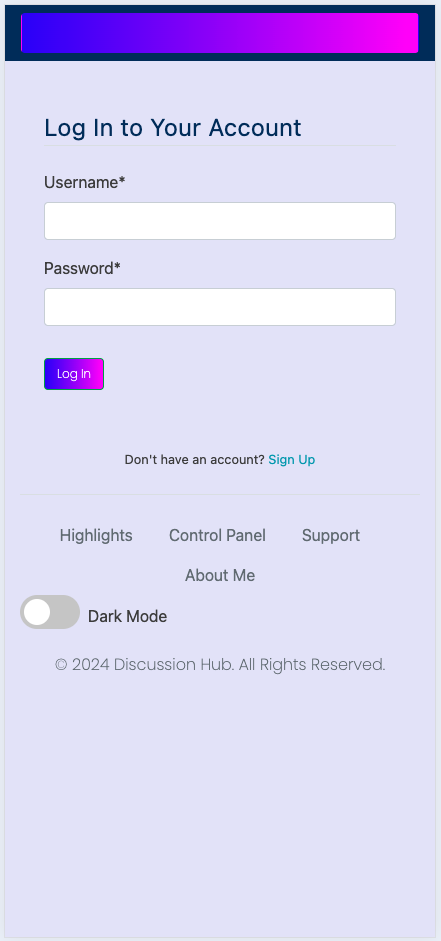
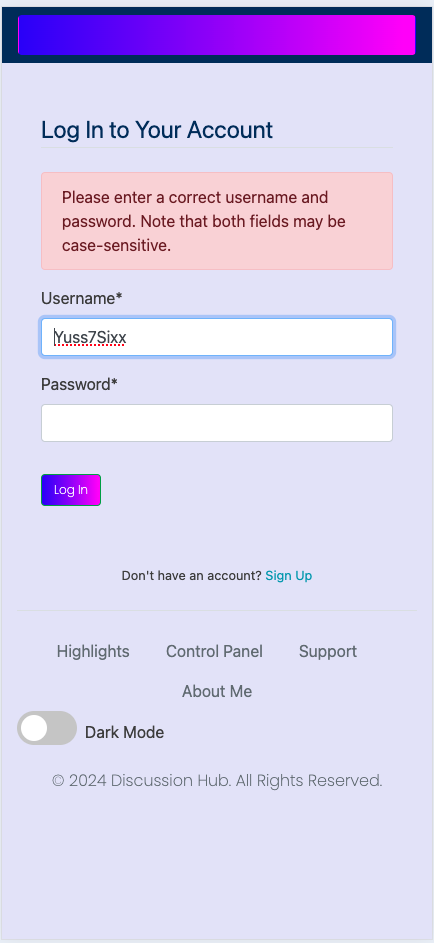
Add login and register pages section to the readme file

diff --git a/README.md b/README.md
@@ -493,6 +493,61 @@ Community guidelines ensure a positive experience for all users, with a strong e
 *About Us Mobile*<br>
 ![About Us Mobile](static/images/screenshots/pageaboutusmobile.png)
 
+### Log In Page
+
+The Login section of the application is designed to provide a user-friendly interface for accessing user accounts. It features:
+
+* Title: A visually appealing title in dark blue reads "Log In to Your Account," clearly indicating the purpose of this section.
+
+* Input Fields: Users are presented with two input fields:
+
+Username: A field for the user to enter their username, styled with a soft white background for easy readability.
+Password: A field for entering the password, also featuring a soft white design to maintain consistency.
+
+* Login Button: A prominent button labeled "Log In," styled in a blue-purple color, allowing users to submit their credentials and access their accounts seamlessly.
+
+* Sign-Up Prompt: Below the login form, there's a friendly reminder for users who do not have an account, prompting them to "Sign Up" if they need to create a new one.
+
+* Error Messaging: Should the user enter incorrect login information, an error message will be displayed to alert them, stating, "Please enter a correct username and password." It's important to note that both fields may be case-sensitive, which means users must enter their credentials precisely.
+
+This design aims to ensure users have an intuitive experience while logging in, promoting both functionality and ease of use.
+
+*Login Page Desktop*<br>
+![Login Page Desktop](static/images/screenshots/pagelogindesktop.png)
+
+*Login Page Mobile*<br>
+![Login Page Mobile](static/images/screenshots/pageloginmobile.png)
+
+### Register Page
+
+The Registration page is designed to facilitate the account creation process for users. It features:
+
+* Title: A striking dark blue title "Create Your Account" immediately captures the user's attention and clearly indicates the purpose of the page.
+
+* Input Fields: Users are provided with six input fields, all styled with a soft white background for a pleasant aesthetic:
+
+* Username: This field includes a requirements statement to ensure users understand the necessary criteria for creating a valid username.
+* First Name: A field for users to input their first name.
+* Last Name: A field for users to input their last name.
+* Email: A field to enter a valid email address, highlighting the importance of accuracy for communication purposes.
+* Password: This field includes specific rules that must be followed, ensuring the password meets required criteria.
+* Password Confirmation: A field to re-enter the password for verification.
+* Error Messaging: If users enter incorrect information in the password fields or if they attempt to register a username that is already taken, a warning message will appear below the respective input field. This feedback helps users correct their entries promptly.
+
+* User Guidance: Users are encouraged to enter accurate information in all fields to facilitate effective communication from our team regarding updates or any issues that may arise.
+
+* Register Now Button: At the end of the form, there is a prominent "Register Now" button styled in an attractive blue and purple color, allowing users to submit their registration details easily.
+
+* Login Prompt: Additionally, at the bottom of the registration page, a message is displayed stating, "Already have an account? Log in," providing users with an easy way to navigate to the login page if they have previously registered.
+
+This design aims to provide a straightforward and effective registration process, ensuring users can create their accounts with minimal friction while being informed at each step.
+
+*Register Page Desktop*<br>
+![Register Page Desktop](static/images/screenshots/pageregisterdesktop.png)
+
+*Register Page Mobile*<br>
+![Register Page Mobile](static/images/screenshots/pageregistermobile.png)
+
 ### Create A New Post
 
 In the Create a New Post section, users can easily compose and publish new posts. This simple and intuitive interface includes fields for the post title, content, and a choice of category. Once the post is ready, users can click the Publish button to share it with the community. 
